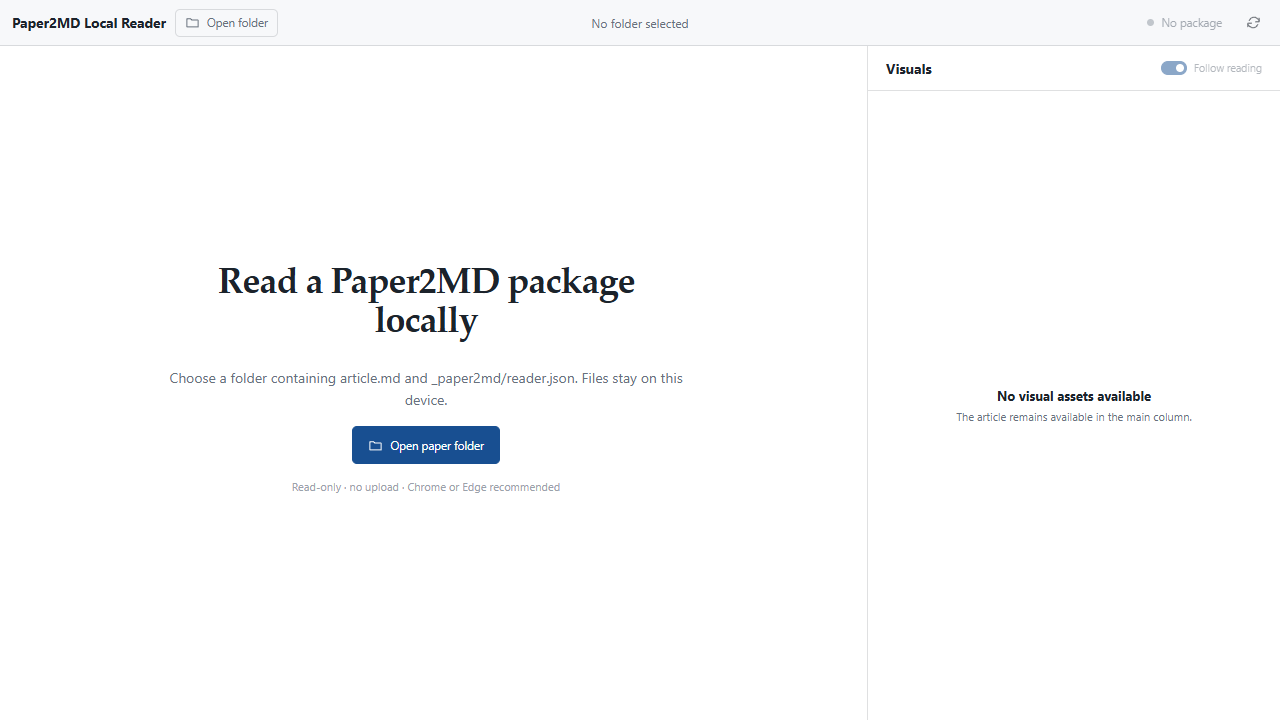
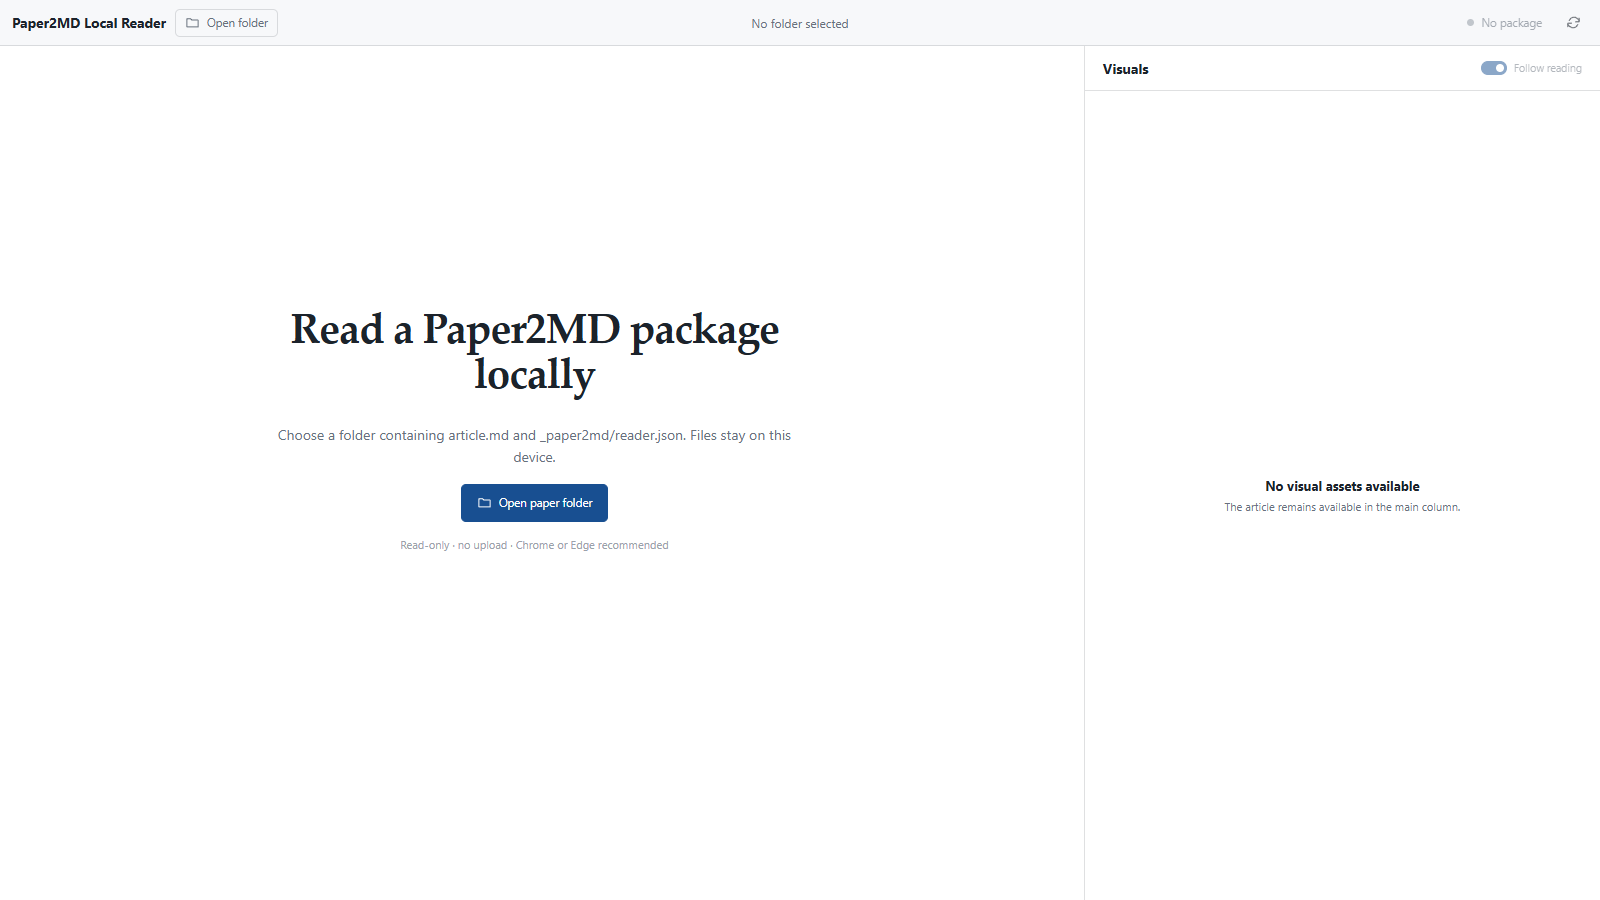
docs: record native-size web fidelity check

diff --git a/design/LOCAL_READER_FIDELITY_LEDGER.md b/design/LOCAL_READER_FIDELITY_LEDGER.md
@@ -27,7 +27,7 @@ The visible host-specific copy is limited to the implementation plan's required 
 
 ## Shared workspace migration check
 
-The `apps/web` entry was compared at 1280×720 against
+The `apps/web` entry was compared at the native 1600×900 size against
 `local-reader-welcome-render.png`. The accepted implementation capture is
 `web-shared-workspace-render.png`.
 
